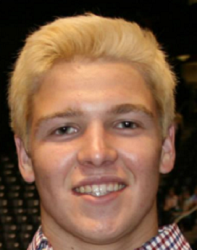
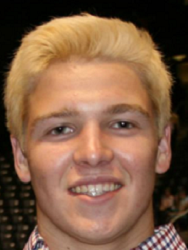
Adjustments to team pics

diff --git a/team.html b/team.html
@@ -53,7 +53,7 @@
         <div class="row">
             <div class="col-lg-4 col-sm-6 portfolio-item">
                 <div class="card h-10">
-                    <a href="#"><img class="card-img-top"  height="450"  src="images/alex.png" alt=""></a>
+                    <a href="#"><img class="card-img-top" src="images/alex.png" alt=""></a>
                     <div class="card-body">
                         <h4 class="card-title">
                             <a href="#">Alex Leak</a>
@@ -63,7 +63,7 @@
             </div>
             <div class="col-lg-4 col-sm-6 portfolio-item">
                 <div class="card h-10">
-                    <a href="#"><img class="card-img-top" height="450" src="images/cole.png" alt=""></a>
+                    <a href="#"><img class="card-img-top" src="images/cole.png" alt=""></a>
                     <div class="card-body">
                         <h4 class="card-title">
                             <a href="#">Cole Morgan</a>
@@ -73,7 +73,7 @@
             </div>
             <div class="col-lg-4 col-sm-6 portfolio-item">
                 <div class="card h-10">
-                    <a href="#"><img class="card-img-top"  height="450" src="images/seth.jpg" alt=""></a>
+                    <a href="#"><img class="card-img-top"  src="images/seth.jpg" alt=""></a>
                     <div class="card-body">
                         <h4 class="card-title">
                             <a href="#">Seth Collins</a>
@@ -83,7 +83,7 @@
             </div>
             <div class="col-lg-4 col-sm-6 portfolio-item">
                 <div class="card h-10">
-                    <a href="#"><img class="card-img-top"  height="450" src="images/will.png" alt=""></a>
+                    <a href="#"><img class="card-img-top"  src="images/will.png" alt=""></a>
                     <div class="card-body">
                         <h4 class="card-title">
                             <a href="#">Will Drennan</a>
